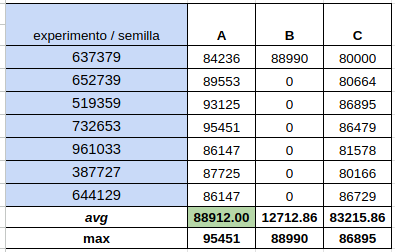
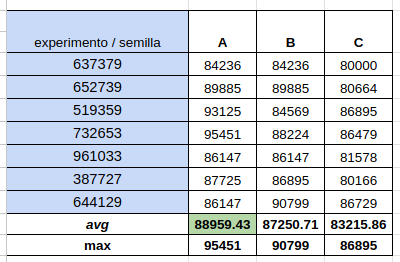
docs: add results to readme

diff --git a/README.md b/README.md
@@ -72,16 +72,20 @@ PARAM$trainingstrategy$training_pct <- 1.0
 PARAM$TRAINING_PCT$metodo <- "training_1_0"
 ```
 
-Por cada experimento se utilizarían 7 semillas lo que en total se traduce a **3x7x7 = 147 envíos a Kaggle** (49 por experimento). Además, se destinarían otros envíos a Kaggle para validar que la incorporación de experimentos de otros grupos funcione correctamente.
+Por cada experimento se utilzizaron 7 semillas lo que en total se traduce a **3x7x7 = 147 envíos a Kaggle** (49 por experimento). Además, se destinaron otros envíos a Kaggle para validar que la incorporación de experimentos de otros grupos funcione correctamente.
+
+Luego, para uno de los experimentos que obtuvo mejor ganancia media, se realizaron nuevas corridas utilizando distintas semillas. A partir de esto, se recopilaron los archivos correspondientes a las probabilidades predichas, se calculó el promedio de las predicciones para cada cliente y, finalmente, se realizó un último submit en Kaggle utilizando los cortes correspondientes.
+
+> Véase [kaggle_from_probability.ipynb](./src/kaggle_from_probability.ipynb) y [probability_merger.py](./src/probability_merger.py)
 
 ### Resultados
 
-Los resultados se encuentran INCOMPLETOS debido a un error durante la ejecución de los experimentos. En lugar de ejecutar el experimento B, se ejecutó por duplicado el experimento A, lo que provocó que se agotara la cantidad de submits disponibles en Kaggle. Por lo tanto, quedaré con la duda de si _Feature Engineering Intra-mes mediante Algoritmo Genético_ podría brindar una ganancia media mayor que los otros experimentos
-
 ![tabla de resultados](./img/ganancias_final.png)
+![tabla de wilcox](./img/wilcox_final.png)
 
 
-#### Configuración de parámetros """ganadores"""
+
+#### Configuración de parámetros "ganadores"
 
 ```r
 PARAM$CA$metodo= "MachineLearning" 
@@ -96,3 +100,4 @@ PARAM$GENETIC$enabled <- "genetic_disabled"
 PARAM$trainingstrategy$training_pct <- 1.0 
 PARAM$TRAINING_PCT$metodo <- "training_1_0"
 ```
+> Gana sobre la aplicación del algoritmo genético porque requiere menor tiempo de procesamiento
